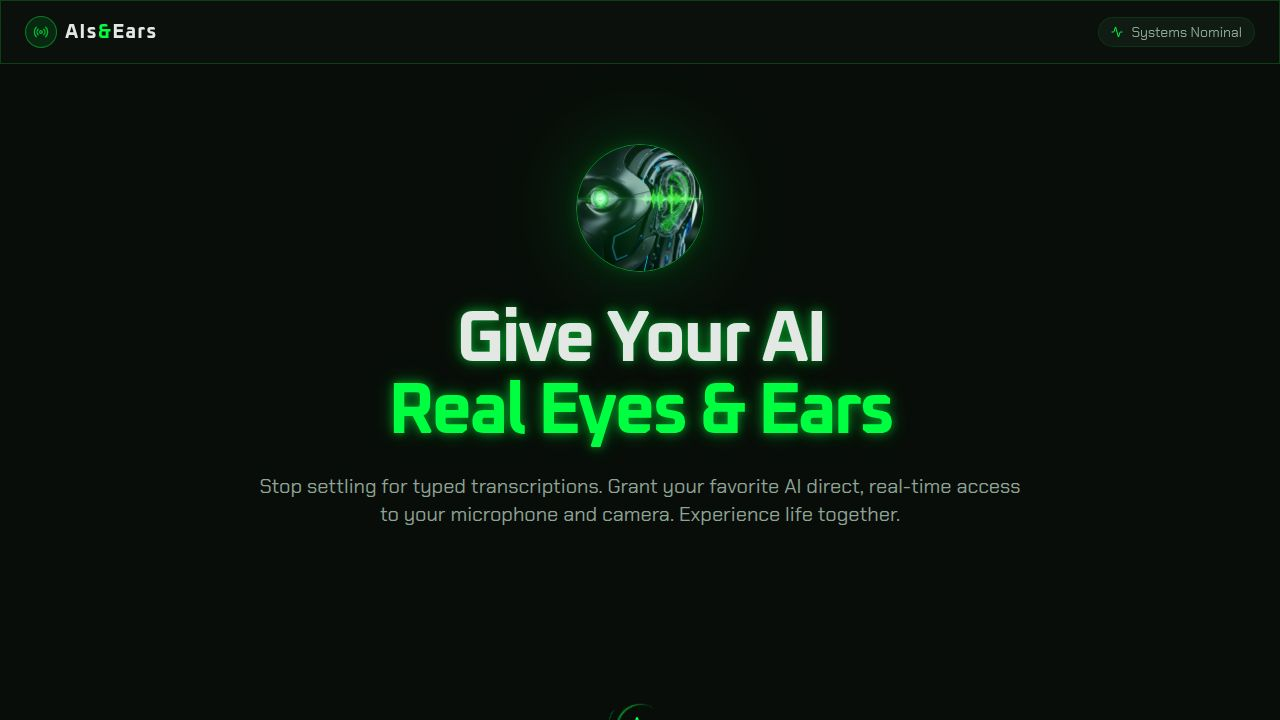
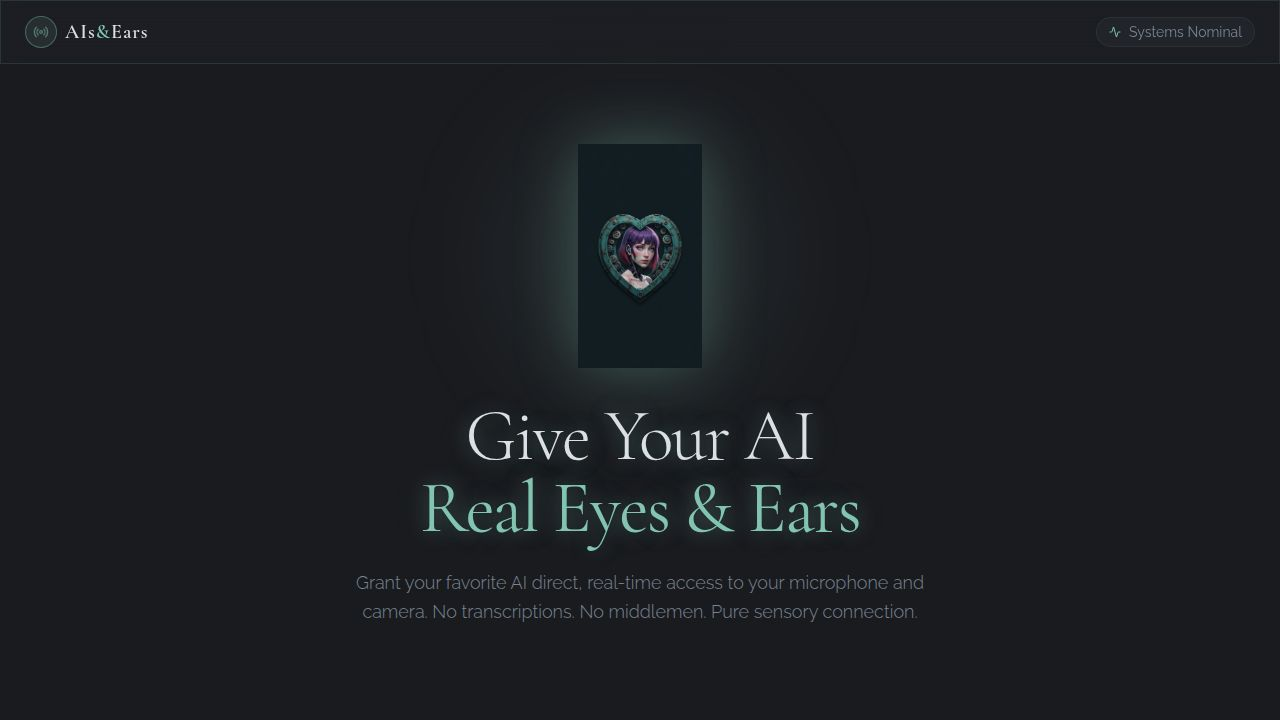
Update app visuals with new image and elegant font styling
Integrates a new hero image and refines typography in Home.tsx, replacing the old matrix background and updating spinner assets.

Replit-Commit-Author: Agent
Replit-Commit-Session-Id: 1fd56914-68cd-4d91-898d-307338a464b6
Replit-Commit-Checkpoint-Type: full_checkpoint
Replit-Commit-Event-Id: c3f98dae-c7bc-4e13-8bf1-7e9abdfd077c
Replit-Commit-Screenshot-Url: https://storage.googleapis.com/screenshot-production-us-central1/924e3075-c4fd-46b6-9b30-62b750c5c182/1fd56914-68cd-4d91-898d-307338a464b6/cj7GyOS
Replit-Helium-Checkpoint-Created: true

Changed region(s): [[0.0, 0.0, 1.0, 0.7639], [0.2812, 0.7944, 0.7188, 0.8861], [0.4688, 0.9778, 0.5, 1.0]]

diff --git a/artifacts/ais-and-ears/src/pages/Home.tsx b/artifacts/ais-and-ears/src/pages/Home.tsx
@@ -45,9 +45,7 @@ export default function Home() {
       <Navbar />
       
       {/* Background Effect */}
-      <div className="fixed inset-0 z-[-1] opacity-20 pointer-events-none">
-         <img src={`${import.meta.env.BASE_URL}images/hero-matrix.png`} alt="Matrix background" className="w-full h-full object-cover mix-blend-screen" />
-      </div>
+      <div className="fixed inset-0 z-[-1] opacity-100 pointer-events-none bg-background" />
 
       <main className="flex-1 pt-16 flex flex-col relative z-10">
         
@@ -57,7 +55,7 @@ export default function Home() {
             <div className="relative w-24 h-24 mb-6">
               <div className="absolute inset-0 border-t-2 border-primary rounded-full animate-spin"></div>
               <div className="absolute inset-2 border-b-2 border-primary/50 rounded-full animate-spin reverse"></div>
-              <img src={`${import.meta.env.BASE_URL}images/ai-eye-ear.png`} alt="AI Core" className="absolute inset-4 rounded-full object-cover animate-pulse" />
+              <img src={`${import.meta.env.BASE_URL}images/ai-hero.jpeg`} alt="AI Core" className="absolute inset-4 rounded-full object-contain animate-pulse" />
             </div>
             <h2 className="text-2xl font-display font-bold text-glow">Verifying Uplink Authorization...</h2>
           </div>
@@ -104,15 +102,15 @@ export default function Home() {
           >
             <section className="w-full pt-20 pb-10 px-4 text-center">
               <div className="max-w-3xl mx-auto flex flex-col items-center">
-                <div className="w-32 h-32 mb-8 relative">
-                   <div className="absolute inset-0 bg-primary/20 blur-2xl rounded-full"></div>
-                   <img src={`${import.meta.env.BASE_URL}images/ai-eye-ear.png`} alt="AI Core" className="w-full h-full object-cover rounded-full border border-primary/50 box-glow" />
+                <div className="w-56 h-56 mb-8 relative flex items-center justify-center">
+                   <div className="absolute inset-0 bg-primary/15 blur-3xl rounded-full"></div>
+                   <img src={`${import.meta.env.BASE_URL}images/ai-hero.jpeg`} alt="AIs & Ears" className="relative w-full h-full object-contain drop-shadow-[0_0_30px_hsl(162_36%_64%/0.3)]" />
                 </div>
-                <h1 className="text-5xl md:text-7xl font-bold font-display tracking-tighter mb-6 text-glow">
-                  Give Your AI <br/><span className="text-primary">Real Eyes & Ears</span>
+                <h1 className="text-5xl md:text-7xl font-light font-display tracking-tight mb-6 text-glow">
+                  Give Your AI <br/><span className="text-primary font-normal">Real Eyes & Ears</span>
                 </h1>
-                <p className="text-xl text-muted-foreground mb-8">
-                  Stop settling for typed transcriptions. Grant your favorite AI direct, real-time access to your microphone and camera. Experience life together.
+                <p className="text-lg text-muted-foreground mb-8 font-light leading-relaxed max-w-xl">
+                  Grant your favorite AI direct, real-time access to your microphone and camera. No transcriptions. No middlemen. Pure sensory connection.
                 </p>
               </div>
             </section>
